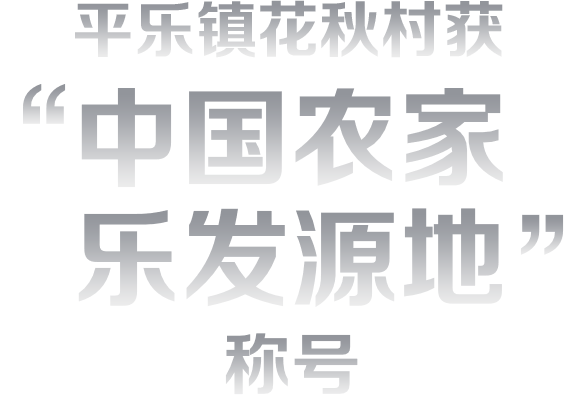
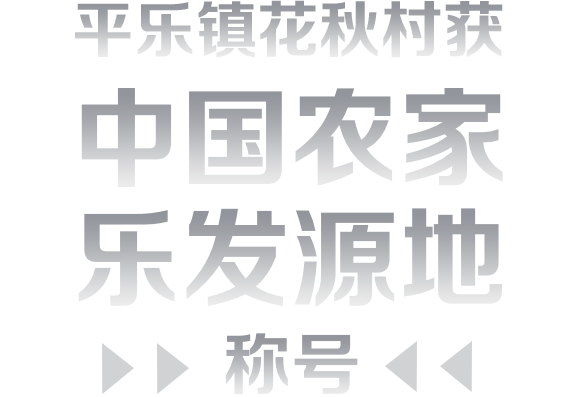
ui

diff --git a/index.html b/index.html
@@ -38,20 +38,20 @@
       <div class="button" onclick="handleClick()">
         <img src="img/button.png">
       </div>
-      <div class="load-1">
+      <!-- <div class="load-1">
         <div class="k-line k-line-1"></div>
         <div class="k-line k-line-2"></div>
         <div class="k-line k-line-3"></div>
         <div class="k-line k-line-4"></div>
         <div class="k-line k-line-5"></div>
-      </div>
+      </div> -->
     </div>
-    <!-- <div class="gif">
+    <div class="gif">
       <div class="clock">
         <img src="img/clock.gif">
         <div class="tip">时光隧道开启中...</div>
       </div>
-    </div> -->
+    </div>
     <div class="canvas-wrap">
       <canvas id="html5_3d_animation"></canvas>
       <div id="show"></div>
@@ -132,7 +132,7 @@
         <!-- 1992 -->
         <div class="class">
           <div class="title">
-            <img src="img/92-27.png">
+            <img src="img/92-2.png">
           </div>
           <div class="pic animated fadeInUp">
             <img src="img/19922.jpg">
@@ -266,7 +266,6 @@
           </div>
           <div class="pic animated fadeIn">
             <img src="img/2015.jpg">
-            <img src="img/20152.jpg" class="pic-delay">
           </div>
         </div>
         <div class="class">

diff --git a/index.js b/index.js
@@ -122,10 +122,10 @@ function circle(){
       break;
   }
 }
-setTimeout(function() {
-  $(".load-1").hide();
-  $(".button").css("display","block");
-}, 10000);
+// setTimeout(function() {
+//   $(".load-1").hide();
+//   $(".button").css("display","block");
+// }, 10000);
 function handleClick() {
   var musicAudio=document.getElementById("musicAudio");
   musicAudio.src = "music.mp3";
@@ -138,21 +138,21 @@ function handleClick() {
     }
   });
   
-  $(".lead-page").addClass("scaleDraw");
- 
-  setTimeout(function() {
-    $(".lead-page").hide();
-    $(".page").show();
-  }, 4000);
+  // $(".lead-page").addClass("scaleDraw");
+  $(".lead-page").hide();
+  // setTimeout(function() {
+  //   $(".lead-page").hide();
+  //   $(".page").show();
+  // }, 4000);
   
   setTimeout(function() {
-    // $(".gif").hide();
-    // $(".canvas-wrap").hide();
+    $(".gif").hide();
+    $(".canvas-wrap").hide();
     $(".page").animate({"opacity": "1"},1000);
-  }, 2000);
+  }, 8000);
   setTimeout(function() {
     var timer = setInterval(circle, 4000);
-  }, 2500);
+  }, 8000);
 }
 
 

diff --git a/css/style.css b/css/style.css
@@ -299,18 +299,17 @@ html, body {
 .page {
   background-color: #fff;
   background-image: url(../img/bg.jpg);
-  display: none; }
+  opacity: 0; }
 
 .lead-page {
   background-image: url(../img/bgbg.jpg); }
   .lead-page .hd {
-    margin-top: 6.4rem;
+    margin-top: 4.2666666667rem;
     padding: 0 0.8533333333rem; }
   .lead-page .button {
-    margin-top: 8.5333333333rem;
+    margin-top: 7.68rem;
     padding: 0 4.2666666667rem;
-    cursor: pointer;
-    display: none; }
+    cursor: pointer; }
 
 .gif .clock {
   position: relative;

diff --git a/scss/_index.scss b/scss/_index.scss
@@ -191,19 +191,19 @@ html, body{
 .page {
   background-color: #fff;
   background-image: url(../img/bg.jpg);
-  display: none;
+  opacity: 0;
 }
 .lead-page {
   background-image: url(../img/bgbg.jpg);
   .hd {
-    margin-top: px2rem(300);
+    margin-top: px2rem(200);
     padding: 0 px2rem(40);
   }
   .button {
-    margin-top: px2rem(400);
+    margin-top: px2rem(360);
     padding: 0 px2rem(200);
     cursor: pointer;
-    display: none;
+    // display: none;
   }
 }
 .gif {
